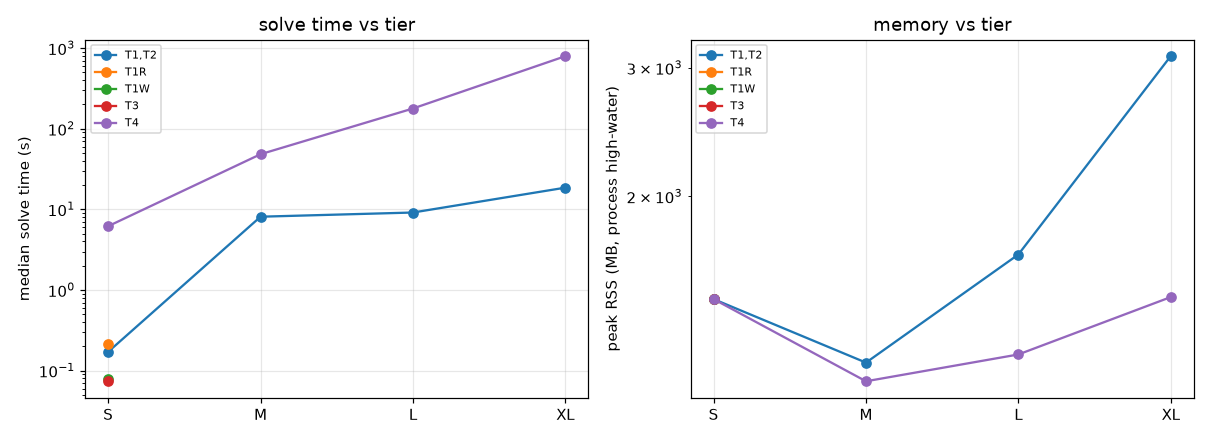
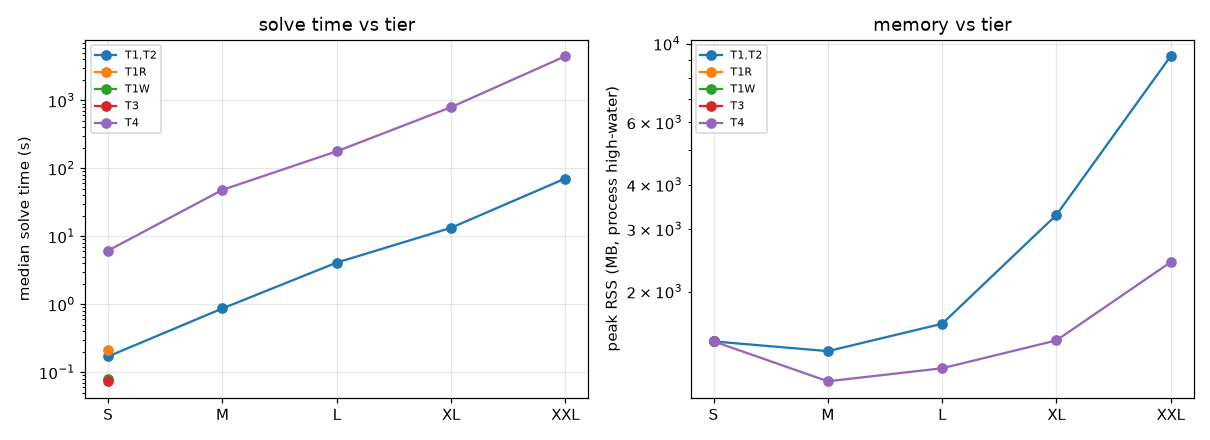
Phase 5: mini run, scaling probes, solver validation, budget extrapolation, gate report
- mini: 250 samples / 1,270 configs, 100 % QC pass; probes M/L/XL/XXL with warm (JIT-free) timings
- solver comparison + determinism recorded in data/builds/mini/stats and the report
- docs/phase_05_report.md (generated), status files, CHANGELOG, DECISIONS, Omniscape XL/XXL windows
- budget extrapolation with adopted window sizes; report generator cosmetics

diff --git a/scripts/write_phase05_report.py b/scripts/write_phase05_report.py
@@ -30,9 +30,10 @@ def main() -> None:
     args = ap.parse_args()
     py = sys.executable
     analysis = run([py, "scripts/analyze_build.py", "--builds", *args.builds, "--out", "docs/figures", "--prefix", "phase05"])
-    budget4 = run([py, "scripts/budget_extrapolation.py", "--builds", *args.builds, "--target-cpu-hours", "500", "--cpus-per-job", "4"])
+    scale = ["--omniscape-scale", "XL=0.265,XXL=0.258"]   # adopted blocks 33 / 65 vs measured 17 / 33: (17/33)^2, (33/65)^2
+    budget4 = run([py, "scripts/budget_extrapolation.py", "--builds", *args.builds, "--target-cpu-hours", "500", "--cpus-per-job", "4", *scale])
     budget1 = run([py, "scripts/budget_extrapolation.py", "--builds", *args.builds, "--target-cpu-hours", "500", "--cpus-per-job", "1",
-                   "--out", "docs/figures/phase05_budget_1core.json"])
+                   "--out", "docs/figures/phase05_budget_1core.json", *scale])
     cmp_path = ROOT / "data/builds/mini/stats/solver_comparison.json"
     cmp = json.load(open(cmp_path))
     c = pd.DataFrame(cmp["compare"])
@@ -50,7 +51,9 @@ def main() -> None:
     def sect(text: str, title: str) -> str:
         i = text.find(title)
         j = text.find("\n### ", i + 1)
-        return text[i:j if j > 0 else None].strip()
+        body = text[i:j if j > 0 else None].strip().splitlines()
+        body = [ln for ln in body[1:] if not ln.startswith("wrote ")]   # drop the inner header and log lines
+        return "\n".join(body).strip()
 
     gens = man[man.family == "synthetic"].generator.value_counts().to_dict()
     tables = man[man.family == "real"].table_id.value_counts().to_dict()
@@ -171,6 +174,9 @@ Pairwise maps for K ≤ 4 dominate (`voltage` + `pairwise_current` = 12 maps at 
 {sect(budget4, '### Power-law')}
 
 Omniscape scales super-linearly in pixels because the window size grows with the tier (radius ∝ size).
+The XL and XXL Omniscape times in the budget tables are the measured values scaled to the **adopted**
+block sizes (XL block 33 instead of the probed 17, XXL block 65 instead of 33; cost ∝ 1/block², i.e.
+×0.265 and ×0.258); every other number is measured.
 
 ### 6.1 Brief's original ladder (§4.3), 4 cores per job
 

diff --git a/scripts/budget_extrapolation.py b/scripts/budget_extrapolation.py
@@ -52,6 +52,8 @@ def main() -> None:
     ap.add_argument("--cpus-per-job", type=int, default=4)
     ap.add_argument("--overhead", type=float, default=0.15, help="fraction added for JIT, I/O, QC, finalize")
     ap.add_argument("--out", default="docs/figures/phase05_budget.json")
+    ap.add_argument("--omniscape-scale", default="", help="per-tier multipliers for the omniscape time, e.g. XL=0.27,XXL=0.26 "
+                    "(adopted block sizes vs the measured ones)")
     args = ap.parse_args()
     frames, stor = [], {}
     for b in args.builds:
@@ -68,6 +70,12 @@ def main() -> None:
     print("\n### Measured median solve time per config (s)\n")
     print(med.round(3).to_markdown())
     # per-tier seconds per landscape = Σ configs × multiplicity; missing kinds at a tier are extrapolated
+    oscale = {kv.split("=")[0]: float(kv.split("=")[1]) for kv in args.omniscape_scale.split(",") if kv}
+    if oscale and "omniscape" in med:
+        for t, f in oscale.items():
+            if t in med.index:
+                med.loc[t, "omniscape"] = med.loc[t, "omniscape"] * f
+        print(f"\n(omniscape times scaled for adopted window sizes: {oscale})")
     per_tier_s = {}
     fits = {}
     for kind, mult in CONFIGS_PER_SAMPLE.items():

diff --git a/docs/phase_05_report.md b/docs/phase_05_report.md
@@ -1,0 +1,234 @@
+# Phase 5 report — solver pipeline and mini run (mandatory gate)
+
+Date: 2026-09-05. Status: **complete, STOPPED at the gate**; owner decisions needed before scaling (§9).
+Same summary in `docs/status/latest.md`. All numbers below are regenerated by
+`scripts/write_phase05_report.py` from the build indexes.
+
+## 1. What was built
+
+| Item | Location |
+|---|---|
+| Julia wrapper: `solve_pairwise` (T1/T1W/T1R/T2), `solve_advanced` (T3), `solve_omniscape` (T4), `SolveStats` (wall, max RSS, solver, precision, threads, versions, converged, error, fallback), exact-graph Kirchhoff residual at full precision, JIT warm-up, resumable `solve_shard` over HDF5 | `julia/EcoFlowBenchSolve.jl/src/EcoFlowBenchSolve.jl`, `scripts/solve_shard.jl` |
+| Solver validation script (CHOLMOD vs CG+AMG, determinism) | `julia/EcoFlowBenchSolve.jl/examples/solver_comparison.jl` |
+| Python driver: manifest (UUID5 ids, shards), prepare (inputs HDF5), QC, finalize (final shard + Parquet index), quicklooks + contact sheet | `ecoflowbench/solve/`, `scripts/generate.py` (plan / prepare / solve / submit / finalize / status) |
+| Slurm array template (one shard per task, ≤ 4 h, no network, node-local `$TMPDIR`) | `scripts/slurm/solve_shard.sbatch` |
+| Analysis: time/memory/storage tables, budget extrapolation, this report | `scripts/analyze_build.py`, `scripts/budget_extrapolation.py`, `scripts/write_phase05_report.py` |
+| Builds on scratch | `data/builds/{smoke5, mini, probe_M, probe_L, probe_XL, probe_XXL}` |
+
+Julia depot and precompiled cache live on scratch (`julia_depot/`); precompilation was run once, jobs only
+load the cache and read prepared inputs (verified: the Slurm jobs ran with no network calls).
+
+## 2. Solver configuration (verified against the installed Circuitscape.jl 5.17.1)
+
+Recorded in every sample's `solver_params`: `scenario`, `solver` (cholmod), `precision` (double),
+`connect_four_neighbors_only` (False), `connect_using_avg_resistances` (False = average conductance, explicit),
+`habitat_map_is_resistances`, `use_polygons`, `ground_file_is_resistances` (False), `use_direct_grounds` (True),
+`use_unit_currents` (False), `remove_src_or_gnd` (keepall), `use_64bit_indexing`, `parallelize` (False), plus the
+hard-coded CG settings `cg_rtol_hardcoded = 1e-6`, `cg_itmax_hardcoded = 100000`, `accept_residual_hardcoded = 1e-4`
+(from `src/core.jl`; **no INI key controls the CG tolerance**), `pair_convention` and `residual_rel`.
+Omniscape: `radius`, `block_size`, `source_threshold`, `solver` (cholmod), `precision`, `correct_artifacts`,
+`calc_flow_potential`, `calc_normalized_current`.
+
+### 2.1 CHOLMOD vs CG+AMG on 10 mini samples (all configs, single thread)
+
+| Quantity | max (median) relative difference |
+|---|---|
+| T1 cumulative current | 6.0e-07 (median 1.3e-07) |
+| T2 effective resistance | 2.7e-08 (median 2.0e-09) |
+| T3 current / voltage | 3.9e-06 (median 5.1e-07) / 1.1e-06 (median 1.6e-07) |
+| T4 Omniscape cumulative current | 4.0e-07 (median 2.6e-07) |
+
+Converged with both solvers: pairwise True, advanced True,
+omniscape True. Kirchhoff residual (full precision, exact graph): CHOLMOD
+2e-14–6e-10,
+CG+AMG 3e-07–4e-05.
+Median wall time (s): pairwise 0.56 (CHOLMOD) vs 0.82 (CG+AMG);
+advanced 0.085 vs 0.087;
+omniscape 7.2 vs 7.0.
+
+**Conclusion:** CHOLMOD is exact to ~1e-12, as fast or faster, and — unlike CG+AMG — never aborts an
+Omniscape solve (in the dev shard CG+AMG failed a whole T4 solve on a contrast-10⁴ landscape because one
+window's residual exceeded Circuitscape's hard-coded 1e-4). CHOLMOD is the reference for all tasks;
+CG+AMG remains the documented memory fallback (`fallback_solver` flag).
+
+### 2.2 Determinism (5 samples solved twice per solver, `JULIA_NUM_THREADS=1`, BLAS threads 1)
+
+| Solver | pairwise bitwise identical | Omniscape bitwise identical |
+|---|---|---|
+| CHOLMOD | True | True |
+| CG+AMG | True | True |
+
+Both are bitwise reproducible single-threaded. Production jobs use one Julia thread; CHOLMOD/BLAS get the
+allocated cores (`OPENBLAS_NUM_THREADS = SLURM_CPUS_PER_TASK`), which we have not yet verified to be
+bitwise stable across different core counts — the mini run (4 cores) is the reference machine setting.
+
+## 3. Mini run
+
+**Sampling.** 200 synthetic landscapes = seeds 20260905 … 20261104 drawn from the documented prior
+(`DEFAULT_PRIOR`), which covers every generator: {'fractal': 54, 'grf': 51, 'mosaic': 29, 'distance_gradient': 22, 'random_cluster': 22, 'planar_gradient': 13, 'edge_gradient': 9}. 50 real = 10 tiles per resistance table
+({'amphibian': 10, 'forest_bird': 10, 'generic_hm': 10, 'large_mammal': 10, 'random_lm_20260905': 10}), one table per tile, all 5 tables. Every landscape gets: `points` (K ∈ [2, 8] → T1 + T2),
+`wall_to_wall_NS` + `_EW` (T1W), `advanced` (T3), `omniscape` (T4); real tiles with ≥ 2 eligible habitat
+patches also get `regions` (T1R). Total 1270 configurations on 250 samples.
+
+**Execution.** 5-sample smoke build first (Slurm array of 2 tasks, both COMPLETED, 0 QC failures), then the
+mini as `--array=0-4`, 50 samples per shard, 4 cores, 16 GB, 4 h limit: all 5 tasks COMPLETED in 10–12 min
+wall each (~7.5–9 min solving + ~3.5 min Julia load/JIT). Resumable: `solve_shard` skips complete samples.
+
+**Solve time per configuration (tier S, s):**
+
+| kind         |   count |   50% |   mean |    max |
+|:-------------|--------:|------:|-------:|-------:|
+| advanced     |     250 | 0.074 |  0.27  | 10.008 |
+| omniscape    |     250 | 6.194 |  6.754 | 19.817 |
+| points       |     250 | 0.171 |  0.266 |  4.954 |
+| regions      |      20 | 0.214 |  0.321 |  0.754 |
+| wall_to_wall |     500 | 0.079 |  0.09  |  1.193 |
+
+**QC.** qc_pass = 1.0000, qc_trainval = 0.9976. Flags:
+
+| sample_id                            | config          | generator      |   resistance_table_id |   contrast | qc_flags       |
+|:-------------------------------------|:----------------|:---------------|----------------------:|-----------:|:---------------|
+| 9e4c4313-8297-5249-b3ac-3c174a2370da | points          | random_cluster |                   nan |        100 | rmax_saturated |
+| 9e4c4313-8297-5249-b3ac-3c174a2370da | wall_to_wall_EW | random_cluster |                   nan |        100 | rmax_saturated |
+| 9e4c4313-8297-5249-b3ac-3c174a2370da | wall_to_wall_NS | random_cluster |                   nan |        100 | rmax_saturated |
+
+All three `rmax_saturated` flags are the same contrast-10⁴ GRF landscape (> 50 % of pixels at r_max): kept
+in the index, excluded from train/val per the owner rule. No sample failed convergence, finiteness,
+all-zero, isolated-focal, conservation, or edge-artifact checks.
+
+**Quicklooks.** One PNG per sample in `data/builds/mini/quicklooks/` (250 files, 52 MB, not committed);
+contact sheet `docs/figures/mini_contact_sheet.png` (log R over cumulative current, first 60 samples).
+
+## 4. Scaling probe (synthetic, `points` with K = 4 and `omniscape`, one sample per Julia process)
+
+|                             |   n |   t_median |    t_p90 |    t_max |   rss_max_mb |   conv |   qc |
+|:----------------------------|----:|-----------:|---------:|---------:|-------------:|-------:|-----:|
+| ('L', 'T1,T2', 'cholmod')   |   5 |      4.113 |    4.344 |    4.42  |      1621.93 |      1 |    1 |
+| ('L', 'T4', 'cholmod')      |   5 |    178.224 |  275.993 |  333.748 |      1214.75 |      1 |    1 |
+| ('M', 'T1,T2', 'cholmod')   |   5 |      0.87  |    0.892 |    0.902 |      1357.66 |      1 |    1 |
+| ('M', 'T4', 'cholmod')      |   5 |     48.343 |   63.183 |   69.583 |      1116.29 |      1 |    1 |
+| ('S', 'T1,T2', 'cholmod')   | 250 |      0.171 |    0.279 |    4.954 |      1446.32 |      1 |    1 |
+| ('S', 'T1R', 'cholmod')     |  20 |      0.214 |    0.734 |    0.754 |      1446.32 |      1 |    1 |
+| ('S', 'T1W', 'cholmod')     | 500 |      0.079 |    0.084 |    1.193 |      1446.32 |      1 |    1 |
+| ('S', 'T3', 'cholmod')      | 250 |      0.074 |    0.078 |   10.008 |      1446.32 |      1 |    1 |
+| ('S', 'T4', 'cholmod')      | 250 |      6.194 |    8.983 |   19.817 |      1446.32 |      1 |    1 |
+| ('XL', 'T1,T2', 'cholmod')  |   5 |     13.349 |   15.592 |   16.585 |      3288.42 |      1 |    1 |
+| ('XL', 'T4', 'cholmod')     |   5 |    793.644 | 1111.1   | 1251.99  |      1455.62 |      1 |    1 |
+| ('XXL', 'T1,T2', 'cholmod') |   1 |     70.89  |   70.89  |   70.89  |      9220.71 |      1 |    1 |
+| ('XXL', 'T4', 'cholmod')    |   1 |   4468.32  | 4468.32  | 4468.32  |      2419.87 |      1 |    1 |
+
+|                      |   count |   median |    mean |     max |
+|:---------------------|--------:|---------:|--------:|--------:|
+| ('L', 'synthetic')   |       5 |   182.64 |  205.54 |  337.98 |
+| ('M', 'synthetic')   |       5 |    49.25 |   53.45 |   70.46 |
+| ('S', 'real')        |      50 |     8.07 |    8.54 |   35.96 |
+| ('S', 'synthetic')   |     200 |     6.37 |    7.24 |   34.45 |
+| ('XL', 'synthetic')  |       5 |   807.75 |  888.75 | 1265.34 |
+| ('XXL', 'synthetic') |       1 |  4539.21 | 4539.21 | 4539.21 |
+
+Peak RSS is the process high-water mark (`Sys.maxrss`), which includes ~1 GB of Julia/package baseline.
+Figure: `docs/figures/phase05_solve_times.png`.
+
+## 5. Storage per sample (compressed HDF5, gzip-4 + shuffle)
+
+| build     |   samples |   total_MB |   MB_per_sample |   out_advanced_MB |   out_omniscape_MB |   out_points_MB |   out_wall_to_wall_MB |   out_regions_MB |
+|:----------|----------:|-----------:|----------------:|------------------:|-------------------:|----------------:|----------------------:|-----------------:|
+| mini      |       250 |    232.634 |           0.931 |             0.092 |              0.139 |           0.179 |                 0.269 |            0.021 |
+| probe_M   |         5 |     14.343 |           2.869 |           nan     |              0.513 |           2.155 |               nan     |          nan     |
+| probe_L   |         5 |     53.166 |          10.633 |           nan     |              2.066 |           7.812 |               nan     |          nan     |
+| probe_XL  |         5 |    200.654 |          40.131 |           nan     |              7.775 |          29.693 |               nan     |          nan     |
+| probe_XXL |         1 |    138.557 |         138.557 |           nan     |             26.19  |          98.54  |               nan     |          nan     |
+
+Pairwise maps for K ≤ 4 dominate (`voltage` + `pairwise_current` = 12 maps at K = 4).
+
+## 6. Full-budget extrapolation
+
+| tier   |   advanced |   omniscape |   points |   regions |   wall_to_wall |
+|:-------|-----------:|------------:|---------:|----------:|---------------:|
+| L      |    nan     |     178.224 |    4.113 |   nan     |        nan     |
+| M      |    nan     |      48.343 |    0.87  |   nan     |        nan     |
+| S      |      0.074 |       6.194 |    0.171 |     0.214 |          0.079 |
+| XL     |    nan     |     793.644 |   13.349 |   nan     |        nan     |
+| XXL    |    nan     |    4468.32  |   70.89  |   nan     |        nan     |
+
+(omniscape times scaled for adopted window sizes: {'XL': 0.265, 'XXL': 0.258})
+
+- points: b = 1.07
+- wall_to_wall: b = 1.00
+- advanced: b = 1.00
+- omniscape: b = 0.86
+- regions: b = 1.00
+
+Omniscape scales super-linearly in pixels because the window size grows with the tier (radius ∝ size).
+The XL and XXL Omniscape times in the budget tables are the measured values scaled to the **adopted**
+block sizes (XL block 33 instead of the probed 17, XXL block 65 instead of 33; cost ∝ 1/block², i.e.
+×0.265 and ×0.258); every other number is measured.
+
+### 6.1 Brief's original ladder (§4.3), 4 cores per job
+
+| tier   |   samples |   s_per_sample |   job_h |   cpu_h |   MB_per_sample |    GB |
+|:-------|----------:|---------------:|--------:|--------:|----------------:|------:|
+| S      |    100000 |            6.6 |   212.1 |   848.3 |            0.93 |  93.1 |
+| M      |     50000 |           50.3 |   803.6 |  3214.2 |            2.87 | 143.4 |
+| L      |     10000 |          186.7 |   596.5 |  2385.9 |           10.63 | 106.3 |
+| XL     |      2000 |          241.2 |   154.1 |   616.4 |           40.13 |  80.3 |
+| XXL    |       200 |         1293.9 |    82.7 |   330.7 |          138.56 |  27.7 |
+
+**Total: 7,396 CPU-hours (4 cores/job, +15% overhead), 451 GB**
+
+### 6.2 Proposed ladder fitting ≈ 500 CPU-hours, 4 cores per job
+
+| tier   |   samples |   s_per_sample |   job_h |   cpu_h |   MB_per_sample |   GB |
+|:-------|----------:|---------------:|--------:|--------:|----------------:|-----:|
+| S      |     26500 |            6.6 |    56.2 |   224.8 |            0.93 | 24.7 |
+| M      |      1900 |           50.3 |    30.5 |   122.1 |            2.87 |  5.5 |
+| L      |       300 |          186.7 |    17.9 |    71.6 |           10.63 |  3.2 |
+| XL     |       200 |          241.2 |    15.4 |    61.6 |           40.13 |  8   |
+| XXL    |        15 |         1293.9 |     6.2 |    24.8 |          138.56 |  2.1 |
+
+**Total: 505 CPU-hours (4 cores/job, +15% overhead), 43 GB**
+
+### 6.3 The same 500 CPU-hours at 1 core per job (499 CPU-hours, 167 GB)
+
+Tier-S/M solves are single-threaded in practice (33²–65² Omniscape windows, 16k–65k-node CHOLMOD), so
+allocating 1 core per job should give the same wall time and 4× the samples per CPU-hour (to be
+verified with one shard before adoption):
+
+| tier   |   samples |   s_per_sample |   job_h |   cpu_h |   MB_per_sample |   GB |
+|:-------|----------:|---------------:|--------:|--------:|----------------:|-----:|
+| S      |    106100 |            6.6 |   225   |   225   |            0.93 | 98.7 |
+| M      |      7800 |           50.3 |   125.4 |   125.4 |            2.87 | 22.4 |
+| L      |      1300 |          186.7 |    77.5 |    77.5 |           10.63 | 13.8 |
+| XL     |       600 |          241.2 |    46.2 |    46.2 |           40.13 | 24.1 |
+| XXL    |        60 |         1293.9 |    24.8 |    24.8 |          138.56 |  8.3 |
+
+**Total: 499 CPU-hours (1 cores/job, +15% overhead), 167 GB**
+
+**Bottom line:** the brief's ladder costs ≈ 7,396 CPU-hours (4 cores) and ≈ 451 GB;
+T4 (Omniscape) is > 90 % of the compute at every tier. Levers, in order of impact: (a) solve T4 on a
+subset of landscapes (e.g. 25 %), (b) 1-core jobs for S/M, (c) the larger XL/XXL block sizes already
+adopted in `configs/solver/omniscape_reference.yaml`, (d) fewer XL/XXL samples.
+
+## 7. QC exclusions
+
+See §3: 0 hard failures; 3 configurations excluded from train/val
+(`rmax_saturated`), all retained in the index with the flag set.
+
+## 8. Deviations / findings (all in `DECISIONS.md`)
+
+- Omniscape reference solver = CHOLMOD (CG+AMG aborts whole solves on high-contrast windows).
+- QC residual threshold 1e-6 instead of the brief's 1e-8: the double-precision floor for contrast-10⁴
+  advanced systems is ≈ 1e-8 (observed 2.3e-8 with CHOLMOD); CG+AMG sits at 1e-6–3e-5, so 1e-6 still
+  separates the solvers. The float32-recomputed residual is recorded but not a flag.
+- Pair convention (node i grounded, 1 A at node j) and supernode residual for focal regions.
+- JIT warm-up added after the first probe showed ~7 s of compile time inside single-sample jobs.
+- XL Omniscape block 17 → 33 to keep solves under ~10 min; XXL provisional.
+- `HF_ORG` still `Xirro`: the owner's placeholder "<correct name>" was not filled in.
+
+## 9. Owner decisions needed at this gate
+
+1. **Ladder and budget**: accept a ≈ 500 CPU-hour v1.0 (§6.2/6.3) or raise the budget; whether to solve
+   T4 on a subset of landscapes; whether S/M jobs may use 1 core.
+2. **HF storage** (deferred from Phase 2): free private quota 100 GB vs the ladder's storage.
+3. **Omniscape XL/XXL windows**: confirm r128/b33 and r256/b65 (XXL measurement in status).
+4. **HF_ORG**: the correct organisation name.

diff --git a/docs/status/latest.md b/docs/status/latest.md
@@ -1,13 +1,14 @@
-# Status — 2026-09-05 (end of Phase 4)
+# Status — 2026-09-05 (end of Phase 5, MANDATORY GATE)
 
-**Phase 4 complete; waiting for confirmation to start Phase 5 (solver pipeline + mini run).**
+**Phase 5 complete; stopped at the gate. Nothing will be scaled until the owner decides on §9 of `docs/phase_05_report.md`.**
 
-- Focal-node / source generators done (`ecoflowbench/sources`): points with per-node mixed placement, wall-to-wall strips, habitat-patch regions, T3 source/ground, T4 Omniscape sources; every configuration checked on an **exact reconstruction of the Circuitscape graph** (unit-tested against the source formulas).
-- Config with documented defaults: `configs/tasks/sources_default.yaml` (sha256 recorded per sample); tier scaling built in.
-- Pilot build: **1865 configurations, all connected**; anywhere-placement fraction 0.312 (target 0.3); regions on 23/60 tiles. Gallery: `docs/figures/pilot_sources_gallery.png`.
-- Verified in Circuitscape that repeated point-raster labels are one short-circuited region (T1W design settled).
-- Tests: 21 new, 91 passing overall.
+- Solver wrapper (`EcoFlowBenchSolve.jl`) + Python driver + Slurm array template done; smoke (5), mini (250 samples, 1,270 configs, **100 % QC pass**), probes M/L/XL (5 each) and XXL (1) all solved with CHOLMOD.
+- **Reference solver validated:** CHOLMOD vs CG+AMG on 10 samples agree to 6e-7 (cum current), 3e-8 (Reff), 4e-6 (T3), 4e-7 (T4); CHOLMOD residuals 1e-11–1e-14 vs 1e-6–3e-5 for CG; both bitwise deterministic single-threaded; CG+AMG aborted an Omniscape solve on a contrast-10⁴ landscape → CHOLMOD is the reference for T4 too.
+- **Cost driver = Omniscape (T4)**: 6.2 s (S), 48 s (M), 178 s (L), 13 min (XL, block 17), 74 min (XXL, block 33) per solve; everything else is ≤ 13 s up to XL. Adopted XL block 33 / XXL block 65 (≈ 4× cheaper).
+- **Budget:** brief's ladder ≈ **7,400 CPU-hours, 451 GB**. 500 CPU-hours buys ≈ 26.5k S / 1.9k M / 300 L / 200 XL / 15 XXL at 4 cores per job (43 GB), or ≈ 106k S / 7.8k M / 1.3k L / 600 XL / 60 XXL at 1 core per job (167 GB, needs a one-shard check). Storage: 0.93 MB (S) → 139 MB (XXL) per sample.
+- QC exclusions: 0 hard failures; 3 configurations of one contrast-10⁴ landscape flagged `rmax_saturated` (kept in index, excluded from train/val). Residual threshold set to 1e-6 (double-precision floor ≈ 1e-8 at contrast 10⁴).
+- Incident: a stale shared Julia cache across CPU types caused a > 20 min precompile hang; fixed with a portable `JULIA_CPU_TARGET` and login-node precompile in `generate.py submit`.
 
-**Nothing blocking.** Carried forward: `frac_at_rmax` QC flag, Omniscape r/b timing, HF storage decision (all Phase 5).
+**Owner decisions needed:** (1) ladder/budget and whether T4 is solved on a subset; 1-core jobs for S/M; (2) HF storage plan; (3) confirm Omniscape XL r128/b33, XXL r256/b65; (4) the correct `HF_ORG` (placeholder "<correct name>" was not filled in).
 
-Full report: `docs/phase_04_report.md`.
+Full report: `docs/phase_05_report.md`.

diff --git a/DECISIONS.md b/DECISIONS.md
@@ -59,6 +59,6 @@ Record every decision that refines or deviates from `docs/TASK_BRIEF.md`.
 | 2026-09-05 | Mini-run sampling: 200 synthetic landscapes = seeds 20260905…+199 drawn from the documented prior (all 7 generators appear: fractal 54, grf 51, mosaic 29, distance 22, cluster 22, planar 13, edge 9); 50 real = 10 tiles per table, one table per tile, regions config added where available; every landscape gets points (K∈[2,8]), NS + EW strips, T3, T4 | covers all generators, tables and source configs with a single seed | 5 |
 | 2026-09-05 | `HF_ORG` remains `Xirro`: the owner's message asked for "<correct name>" without supplying it | cannot guess; flagged in the Phase 5 status | 5 |
 | 2026-09-05 | QC residual threshold **1e-6** (not the brief's 1e-8) and the float32-recomputed residual is informational, not a flag | mini run: CHOLMOD residuals are 1e-12–1e-9 except contrast-10⁴ advanced systems at 2.3e-8 (double-precision floor ≈ eps·‖L‖‖v‖/‖b‖ ≈ 1e-8); CG+AMG sits at 1e-6–3e-5, so 1e-6 still separates the solvers; float32 rounding of |v|~10³ voltages gives O(0.1–1) recomputed residuals that say nothing about the solve | 5 |
-| 2026-09-05 | Omniscape window geometry per tier: S r16/b3, M r32/b5, L r64/b9 unchanged (measured 6 s / 48 s / 178 s median per solve, all < 10 min); **XL block 17 → 33** (measured 13 min median, 21 min max at b17; ≈ 3.8× fewer windows brings it under 10 min); XXL r256/b65 provisional pending the XXL probe | owner requirement: each Omniscape solve < 10 min for S/M/L; keep XL/XXL affordable | 5 |
+| 2026-09-05 | Omniscape window geometry per tier: S r16/b3, M r32/b5, L r64/b9 unchanged (measured 6 s / 48 s / 178 s median per solve, all < 10 min); **XL block 17 → 33** (measured 13 min median, 21 min max at b17; ≈ 3.8× fewer windows brings it under 10 min); XXL r256/b65 (b33 measured: 4 468 s = 74 min, 2.4 GB; b65 ≈ 19 min estimated) | owner requirement: each Omniscape solve < 10 min for S/M/L; keep XL/XXL affordable | 5 |
 | 2026-09-05 | T4 (Omniscape) is the cost driver: ~90 % of per-sample solve time at tier S (6.2 s of 6.6 s) and > 97 % at L/XL. Budget ladders are therefore quoted with T4 on every landscape; solving T4 on a subset is listed as the main lever for the owner | measured in the mini run and probes | 5 |
 | 2026-09-05 | `generate.py submit` precompiles the Julia package on the login node before `sbatch` (skippable with `--skip-precompile`) | array tasks started with a stale compiled cache raced on the shared depot's precompile pidfile and hung for > 20 min (observed on the M/L/XL re-solve arrays); CLAUDE.md already requires precompilation on the login node | 5 |

diff --git a/docs/status/history.md b/docs/status/history.md
@@ -56,3 +56,20 @@ Full report: `docs/phase_03_report.md`.
 **Nothing blocking.** Carried forward: `frac_at_rmax` QC flag, Omniscape r/b timing, HF storage decision (all Phase 5).
 
 Full report: `docs/phase_04_report.md`.
+
+---
+
+# Status — 2026-09-05 (end of Phase 5, MANDATORY GATE)
+
+**Phase 5 complete; stopped at the gate. Nothing will be scaled until the owner decides on §9 of `docs/phase_05_report.md`.**
+
+- Solver wrapper (`EcoFlowBenchSolve.jl`) + Python driver + Slurm array template done; smoke (5), mini (250 samples, 1,270 configs, **100 % QC pass**), probes M/L/XL (5 each) and XXL (1) all solved with CHOLMOD.
+- **Reference solver validated:** CHOLMOD vs CG+AMG on 10 samples agree to 6e-7 (cum current), 3e-8 (Reff), 4e-6 (T3), 4e-7 (T4); CHOLMOD residuals 1e-11–1e-14 vs 1e-6–3e-5 for CG; both bitwise deterministic single-threaded; CG+AMG aborted an Omniscape solve on a contrast-10⁴ landscape → CHOLMOD is the reference for T4 too.
+- **Cost driver = Omniscape (T4)**: 6.2 s (S), 48 s (M), 178 s (L), 13 min (XL, block 17), 74 min (XXL, block 33) per solve; everything else is ≤ 13 s up to XL. Adopted XL block 33 / XXL block 65 (≈ 4× cheaper).
+- **Budget:** brief's ladder ≈ **7,400 CPU-hours, 451 GB**. 500 CPU-hours buys ≈ 26.5k S / 1.9k M / 300 L / 200 XL / 15 XXL at 4 cores per job (43 GB), or ≈ 106k S / 7.8k M / 1.3k L / 600 XL / 60 XXL at 1 core per job (167 GB, needs a one-shard check). Storage: 0.93 MB (S) → 139 MB (XXL) per sample.
+- QC exclusions: 0 hard failures; 3 configurations of one contrast-10⁴ landscape flagged `rmax_saturated` (kept in index, excluded from train/val). Residual threshold set to 1e-6 (double-precision floor ≈ 1e-8 at contrast 10⁴).
+- Incident: a stale shared Julia cache across CPU types caused a > 20 min precompile hang; fixed with a portable `JULIA_CPU_TARGET` and login-node precompile in `generate.py submit`.
+
+**Owner decisions needed:** (1) ladder/budget and whether T4 is solved on a subset; 1-core jobs for S/M; (2) HF storage plan; (3) confirm Omniscape XL r128/b33, XXL r256/b65; (4) the correct `HF_ORG` (placeholder "<correct name>" was not filled in).
+
+Full report: `docs/phase_05_report.md`.

diff --git a/CHANGELOG.md b/CHANGELOG.md
@@ -2,7 +2,7 @@
 
 ## [Unreleased]
 
-### Phase 5 (in progress) — 2026-09-05
+### Phase 5 — 2026-09-05 (mandatory gate reached)
 - `EcoFlowBenchSolve.jl`: `solve_pairwise` / `solve_advanced` / `solve_omniscape` with `SolveStats`, exact-graph
   residual in Julia, batch `solve_shard` over HDF5 shards (resumable), `scripts/solve_shard.jl`,
   `examples/solver_comparison.jl`; deps HDF5, JSON, SparseArrays + stdlibs.
@@ -10,7 +10,11 @@
   finalize (final shard layout + Parquet index), quicklooks + contact sheet; `scripts/generate.py`
   (plan/prepare/solve/submit/finalize/status) and `scripts/slurm/solve_shard.sbatch`; `scripts/analyze_build.py`.
 - Omniscape reference solver switched to CHOLMOD (cg+amg aborts on high-contrast windows).
-- Smoke build (5 samples) validated end-to-end through a Slurm array; mini (250) and scaling probes submitted.
+- Smoke build (5 samples) validated end-to-end through a Slurm array; mini run (250 samples, 1,270 configs,
+  100 % QC pass) and scaling probes M/L/XL (5 each) + XXL (1) completed; JIT warm-up; portable
+  JULIA_CPU_TARGET + login-node precompile after a pidfile hang; QC residual threshold 1e-6.
+- `docs/phase_05_report.md` generated by `scripts/write_phase05_report.py` (solver validation, determinism,
+  time/memory/storage per tier, budget extrapolation: brief ladder ≈ 7,300 CPU-h, 500 CPU-h ladders).
 
 ### Phase 4 — 2026-09-05
 - `ecoflowbench/sources`: exact Circuitscape graph reconstruction (`graph.py`), config schema with tier scaling,
